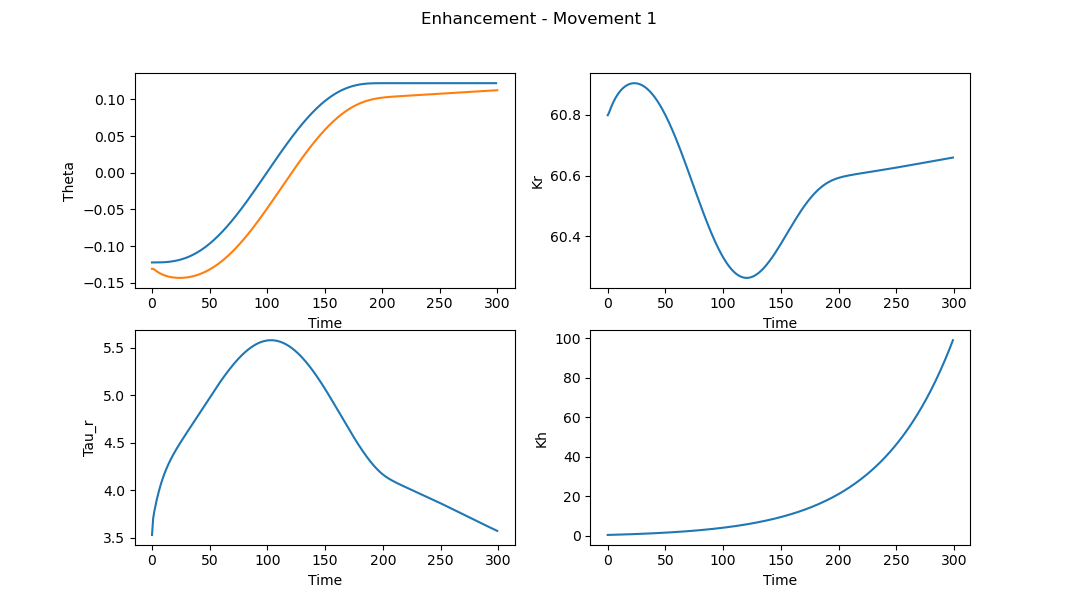
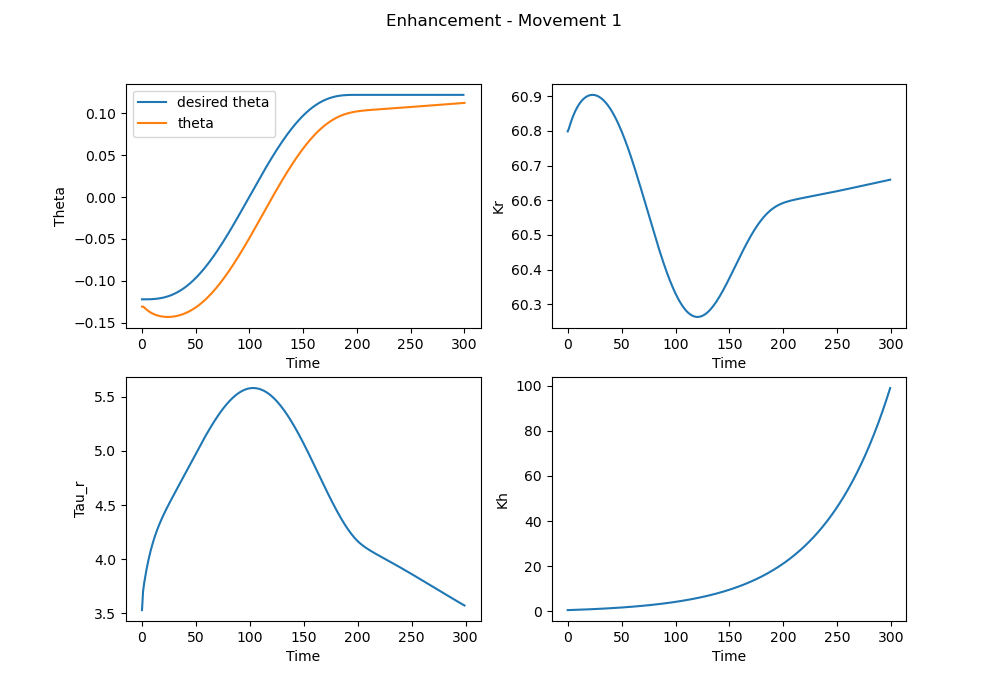
New plots

diff --git a/enhacement_1.py b/enhacement_1.py
@@ -52,9 +52,9 @@ def adaptive_AIC(y, t, kr_bar, tau_e, M, C, H, m_foot, l_foot_com, mov, alpha, t
 
 
 # specify the number of movements
-n_movements = 2
+n_movements = 1
 
-for movement in range(1,n_movements):
+for movement in range(n_movements):
     E = 0
     t = np.linspace(0, 3, 300) 
     if movement % 2 == 0:
@@ -97,7 +97,7 @@ for movement in range(1,n_movements):
         tau_r_list.append(tau_r)
 
 theta_d = []
-for movement in range(1,n_movements):
+for movement in range(n_movements):
     if movement % 2 == 0:
         # going up
         mov = 1
@@ -107,10 +107,11 @@ for movement in range(1,n_movements):
     theta_d += [calc_theta_d(q,mov) for q in t]
 
 fig, ax = plt.subplots(2, 2)
-ax[0][0].plot(theta_d)
-ax[0][0].plot(theta_list)
+ax[0][0].plot(theta_d, label = 'desired theta')
+ax[0][0].plot(theta_list, label = 'theta')
 ax[0][0].set_xlabel('Time')
 ax[0][0].set_ylabel('Theta')
+ax[0][0].legend(loc = 'upper left')
 
 ax[0][1].plot(kr_list)
 ax[0][1].set_xlabel('Time')
@@ -121,7 +122,7 @@ ax[1][0].set_ylabel('Tau_r')
 ax[1][1].plot(kh_list)
 ax[1][1].set_xlabel('Time')
 ax[1][1].set_ylabel('Kh')
-fig.suptitle('Enhancement - Movement 2')
+fig.suptitle('Enhancement - Movement 1')
  
 plt.show()
 

diff --git a/adaptive_stiffness.py b/adaptive_stiffness.py
@@ -55,9 +55,9 @@ def adaptive_AIC(y, t, kr_bar, tau_e, M, C, H, m_foot, l_foot_com, mov, alpha, t
 
 
 # specify the number of movements
-n_movements = 2
+n_movements = 1
 
-for movement in range(1, n_movements):
+for movement in range(n_movements):
     E = 0
     t = np.linspace(0, 3, 300) 
     if movement % 2 == 0:
@@ -103,7 +103,7 @@ for movement in range(1, n_movements):
 
 
 theta_d = []
-for movement in range(1, n_movements):
+for movement in range(n_movements):
     if movement % 2 == 0:
         # going up
         mov = 1
@@ -114,10 +114,11 @@ for movement in range(1, n_movements):
 
 
 fig, ax = plt.subplots(2, 2)
-ax[0][0].plot(theta_d)
-ax[0][0].plot(theta_list)
+ax[0][0].plot(theta_d, label = 'desired theta')
+ax[0][0].plot(theta_list, label = 'theta')
 ax[0][0].set_xlabel('Time')
 ax[0][0].set_ylabel('Theta')
+ax[0][0].legend(loc = 'upper left')
 
 ax[0][1].plot(kr_list)
 ax[0][1].set_xlabel('Time')
@@ -128,7 +129,7 @@ ax[1][0].set_ylabel('Tau_r')
 ax[1][1].plot(kh_list)
 ax[1][1].set_xlabel('Time')
 ax[1][1].set_ylabel('Kh')
-fig.suptitle('Adaptive stiffness - Movement 2')
+fig.suptitle('Adaptive stiffness - Movement 1')
  
 plt.show()
 

diff --git a/force_feedback.py b/force_feedback.py
@@ -109,10 +109,11 @@ for movement in range(n_movements):
     theta_d += [calc_theta_d(q,mov) for q in t]
 
 fig, ax = plt.subplots(2, 2)
-ax[0][0].plot(theta_d)
-ax[0][0].plot(theta_list)
+ax[0][0].plot(theta_d, label = 'desired theta')
+ax[0][0].plot(theta_list, label = 'theta')
 ax[0][0].set_xlabel('Time')
 ax[0][0].set_ylabel('Theta')
+ax[0][0].legend(loc = 'upper right')
 
 ax[0][1].plot(kr_list)
 ax[0][1].set_xlabel('Time')
